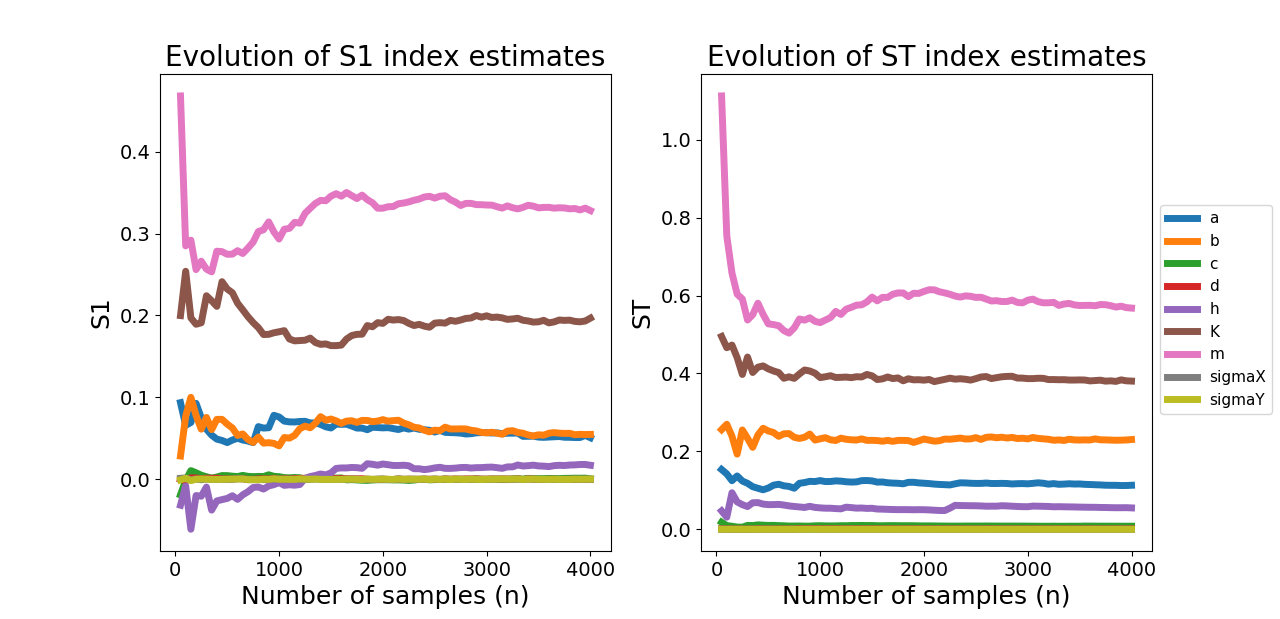
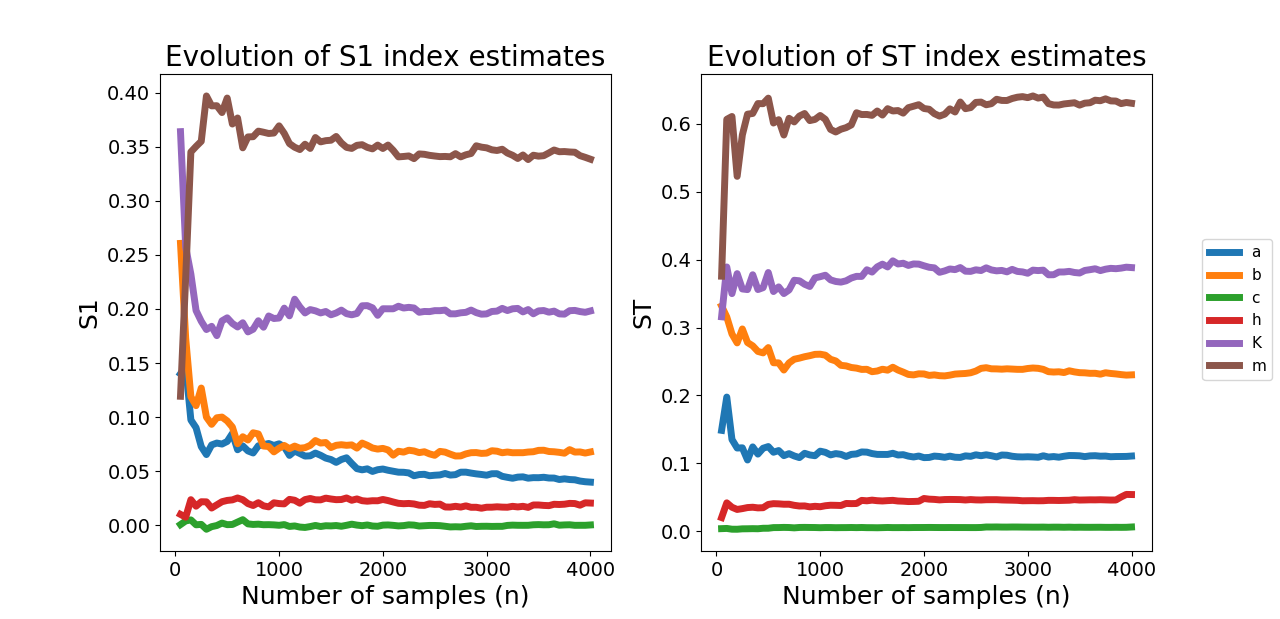
revert back to 6

diff --git a/fishery.py b/fishery.py
@@ -1,6 +1,6 @@
 import numpy as np
 
-N = 10 # Number of realizations of environmental stochasticity
+N = 1 # Number of realizations of environmental stochasticity
 
 tSteps = 100 # no. of timesteps to run the fish game on
 
@@ -10,13 +10,15 @@ effort = 0.2 # harvesting effort
 def fish_game(a = 0.005, # rate at which the prey is available to the predator
               b = 0.5, # prey growth rate
               c = 0.5, # rate with which consumed prey is converted to predator abundance
-              d = 0.1, # predator death rate
               h = 0.1, # handling time (time each predator needs to consume the caught prey)
               K = 2000, # prey carrying capacity given its environmental conditions
-              m = 0.7, # predator interference parameter
-              sigmaX = 0.004, # variance of stochastic noise in prey population
-              sigmaY = 0.004): # variance of stochastic noise of predator population
-               
+              m = 0.7): # predator interference parameter
+
+    
+    d = 0.1 # predator death rate   
+    sigmaX = 0.004 # variance of stochastic noise in prey population
+    sigmaY = 0.004 # variance of stochastic noise of predator population  
+      
     x = np.zeros(tSteps+1) # Create prey population array
     y = np.zeros(tSteps+1) # Create predator population array
 
@@ -51,4 +53,3 @@ def fish_game(a = 0.005, # rate at which the prey is available to the predator
         NPV[i] = NPVharvest
     
     return (np.mean(NPV)) # Mean number of predator extinction days per realization
-
